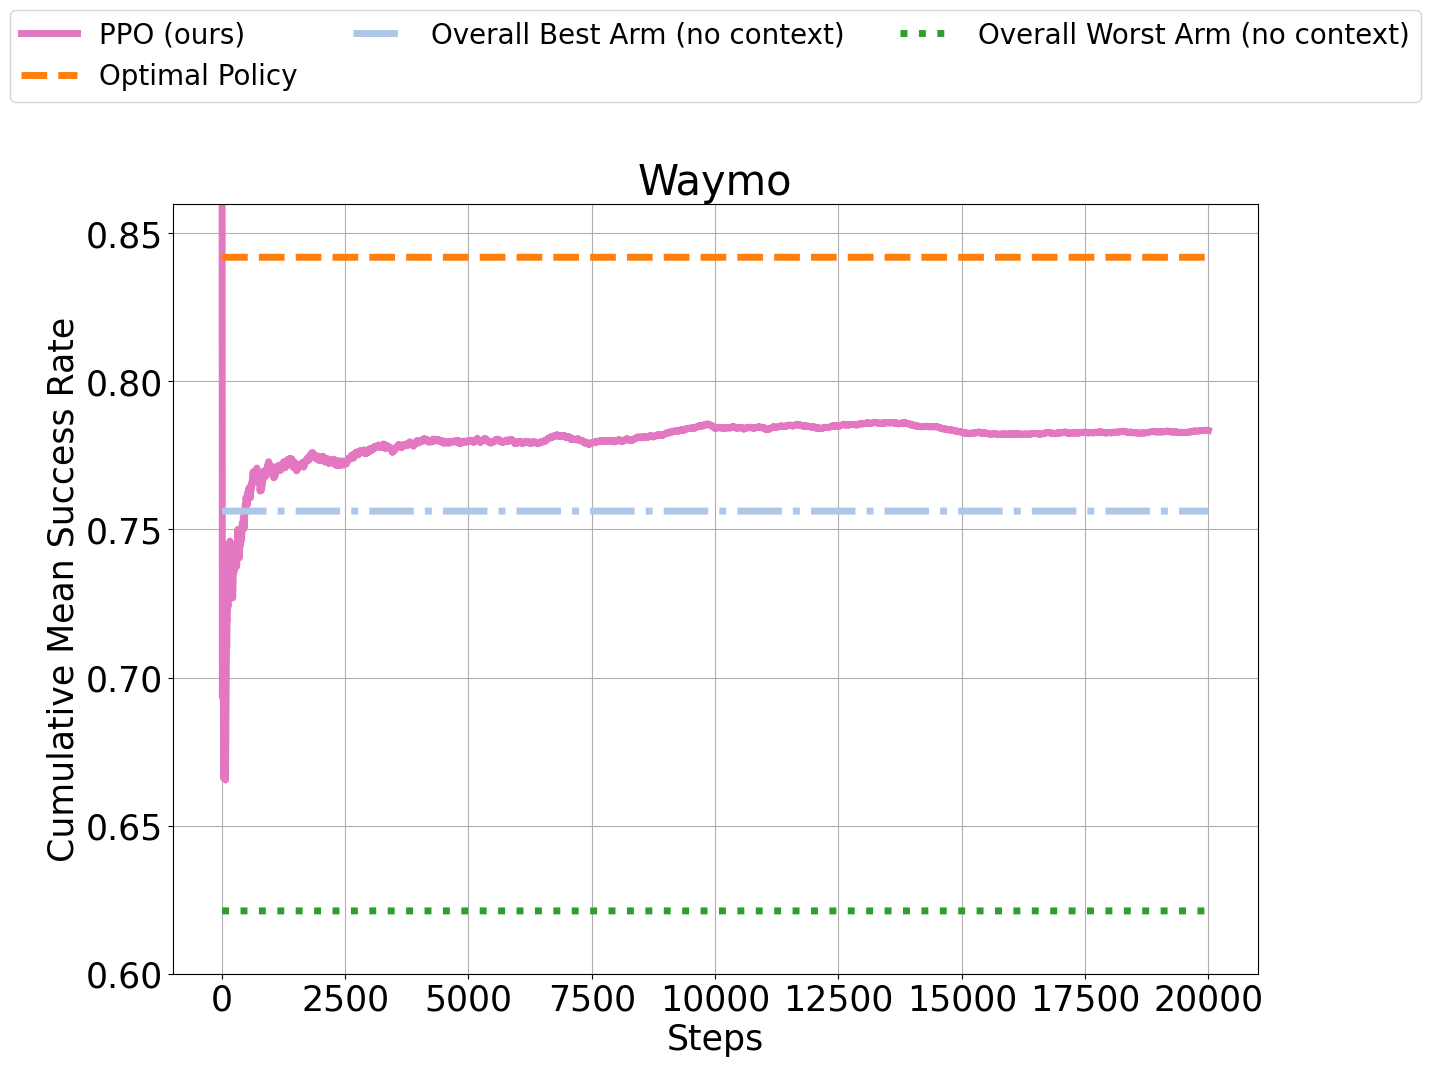
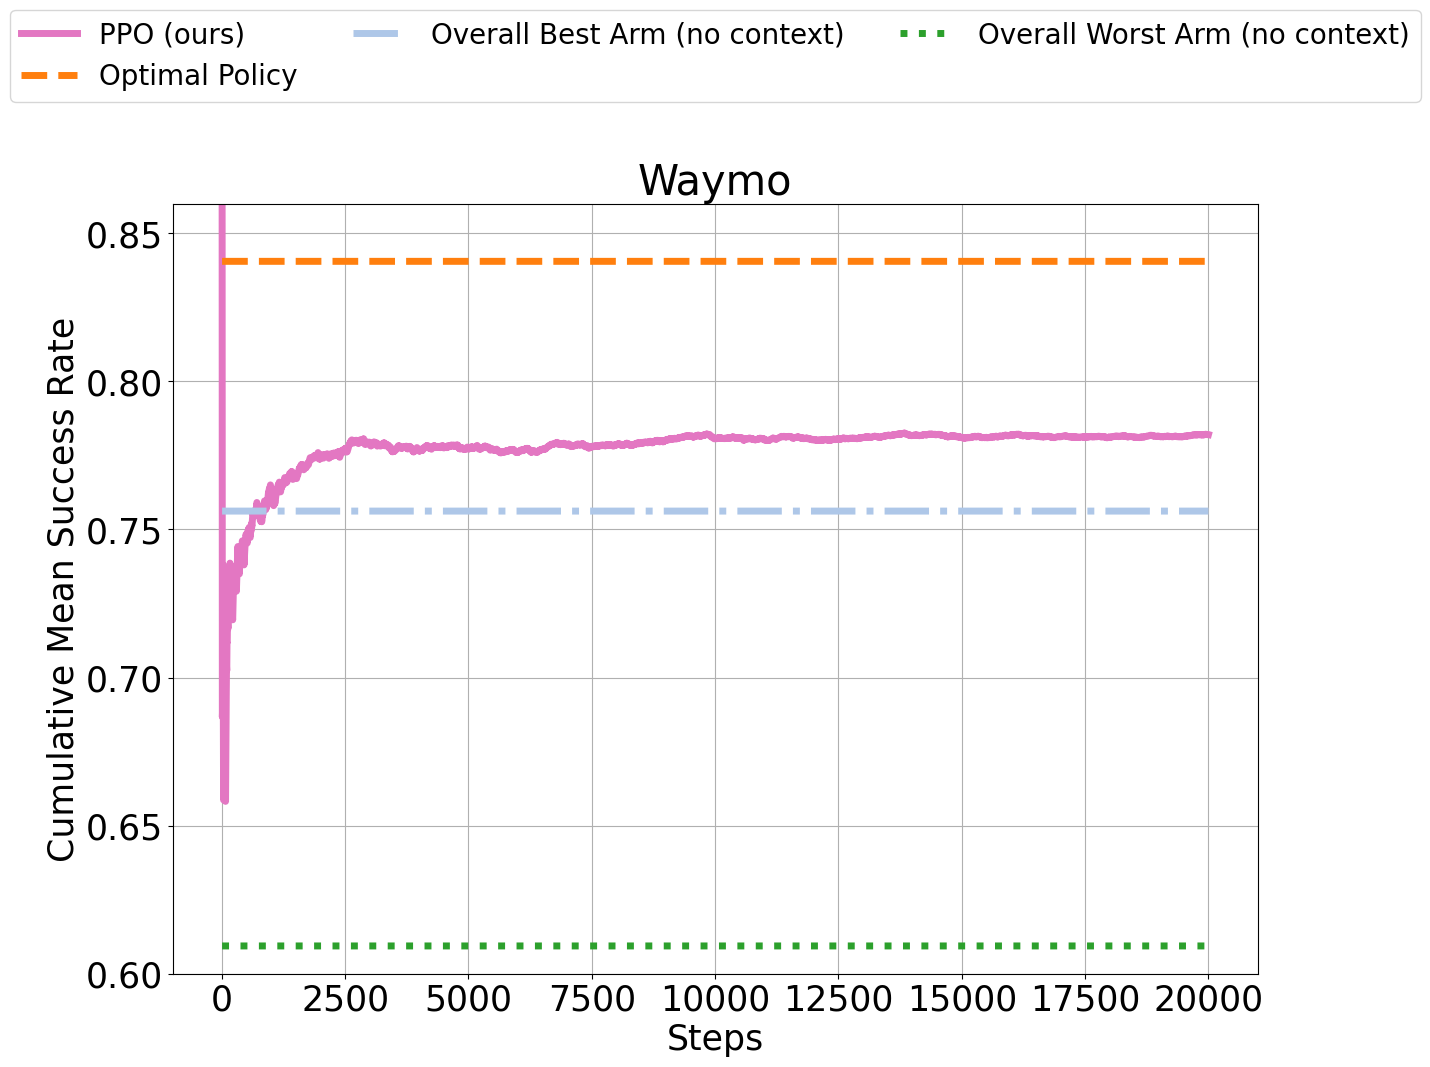
RT-X inference + waymo network stats done

diff --git a/query/src/plotting/Waymo_latency_plot.py b/query/src/plotting/Waymo_latency_plot.py
@@ -39,7 +39,14 @@ def plot_waymo_lat(save=False, ax_=None):
     model_latency = np.load(data_path + "arm_results_time.npy")  # 20000x3
 
     ### add image transmission time
-    model_latency[:, 1:] += 0.166 * 2
+    # model_latency[:, 1:] += 0.166 * 2
+    df = pd.read_csv(data_path + "cloud-transmit-data-3.csv")
+    df.iloc[:5, :] = df.iloc[dataset_size:, :]
+    df = df.iloc[:dataset_size, :]
+    network_latency = df["download"].values + df["upload"].values
+    model_latency[:, 1] += network_latency
+    model_latency[:, 2] += network_latency
+
     ### add acc and latency
     X_complete = np.concatenate(
         (q_emb, img_emb, arm_results),

diff --git a/query/envs/WaymoLatencyGymEnv.py b/query/envs/WaymoLatencyGymEnv.py
@@ -97,7 +97,12 @@ class WaymoLatencyGymEnv(gym.Env):
         self.q_std = np.std(self.q_emb, axis=0)
 
         ### add image transmission time
-        self.model_latency[:, 1:] += 0.166 * 2
+        df = pd.read_csv(data_path + "cloud-transmit-data-3.csv")
+        df.iloc[:5, :] = df.iloc[dataset_size:, :]
+        df = df.iloc[:dataset_size, :]
+        network_latency = df["download"].values + df["upload"].values
+        self.model_latency[:, 1] += network_latency
+        self.model_latency[:, 2] += network_latency
 
         ### add acc and latency
         self.reward = (

diff --git a/query/src/policy/ppo_latency.py b/query/src/policy/ppo_latency.py
@@ -1,6 +1,6 @@
-### poetry run python query/src/policy/ppo_latency.py -e OpenDomain -c True -n 4
-### poetry run python query/src/policy/ppo_latency.py -e Alfred -c True -n 50
-### poetry run python query/src/policy/ppo_latency.py -e Waymo -c True -n 50
+### poetry run python query/src/policy/ppo_latency.py -e OpenDomain -c True -n 5
+### poetry run python query/src/policy/ppo_latency.py -e Alfred -c True -n 5
+### poetry run python query/src/policy/ppo_latency.py -e Waymo -c True -n 5
 import argparse
 
 import gymnasium as gym

diff --git a/query/src/plotting/waymo_network_stat.py b/query/src/plotting/waymo_network_stat.py
@@ -5,7 +5,7 @@ from swarm_visualizer.utility.general_utils import (
     set_axis_infos,
 )
 
-df_path = "synced_data/csv/waymo/cloud-transmit-data.csv"
+df_path = "synced_data/csv/waymo/cloud-transmit-data-3.csv"
 llava_results_path = "synced_data/csv/waymo/waymo_captions_llava-v1.5-13b.csv"
 xylabelsize = 26
 legendsize = 22

diff --git a/query/src/plotting/All_exps_reward.py b/query/src/plotting/All_exps_reward.py
@@ -78,7 +78,7 @@ set_axis_infos(
 set_axis_infos(
     ax_waymo_lat,
     xlabel="Number of Data Observed",
-    ylim=(0.74, 0.96),
+    ylim=(0.64, 0.86),
     xticks=list(np.arange(0, 20001, 5000)),
     yticks=list(np.arange(0.6, 0.86, 0.1)),
     xlabel_size=xylabelsize,
